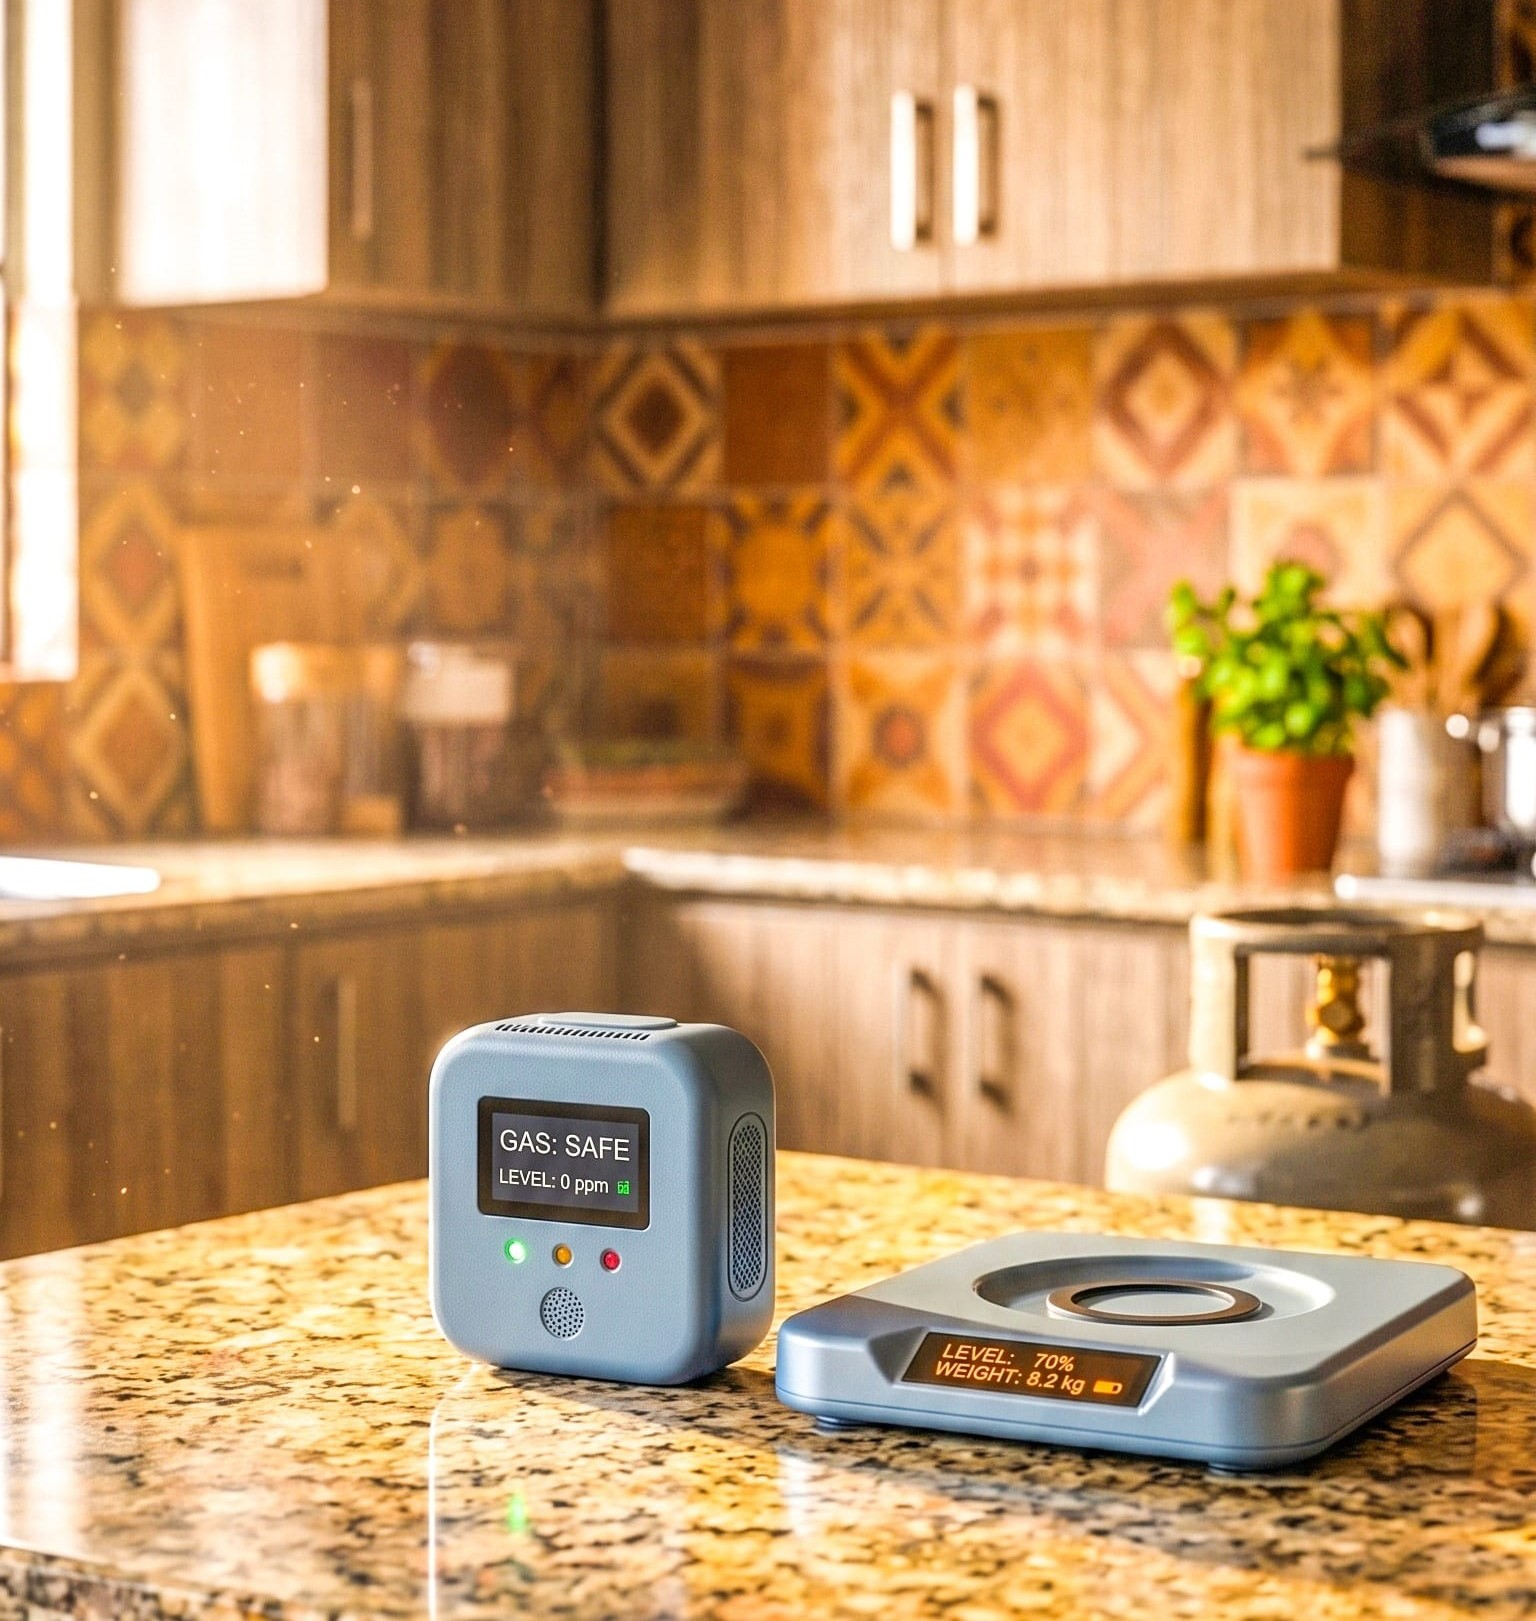
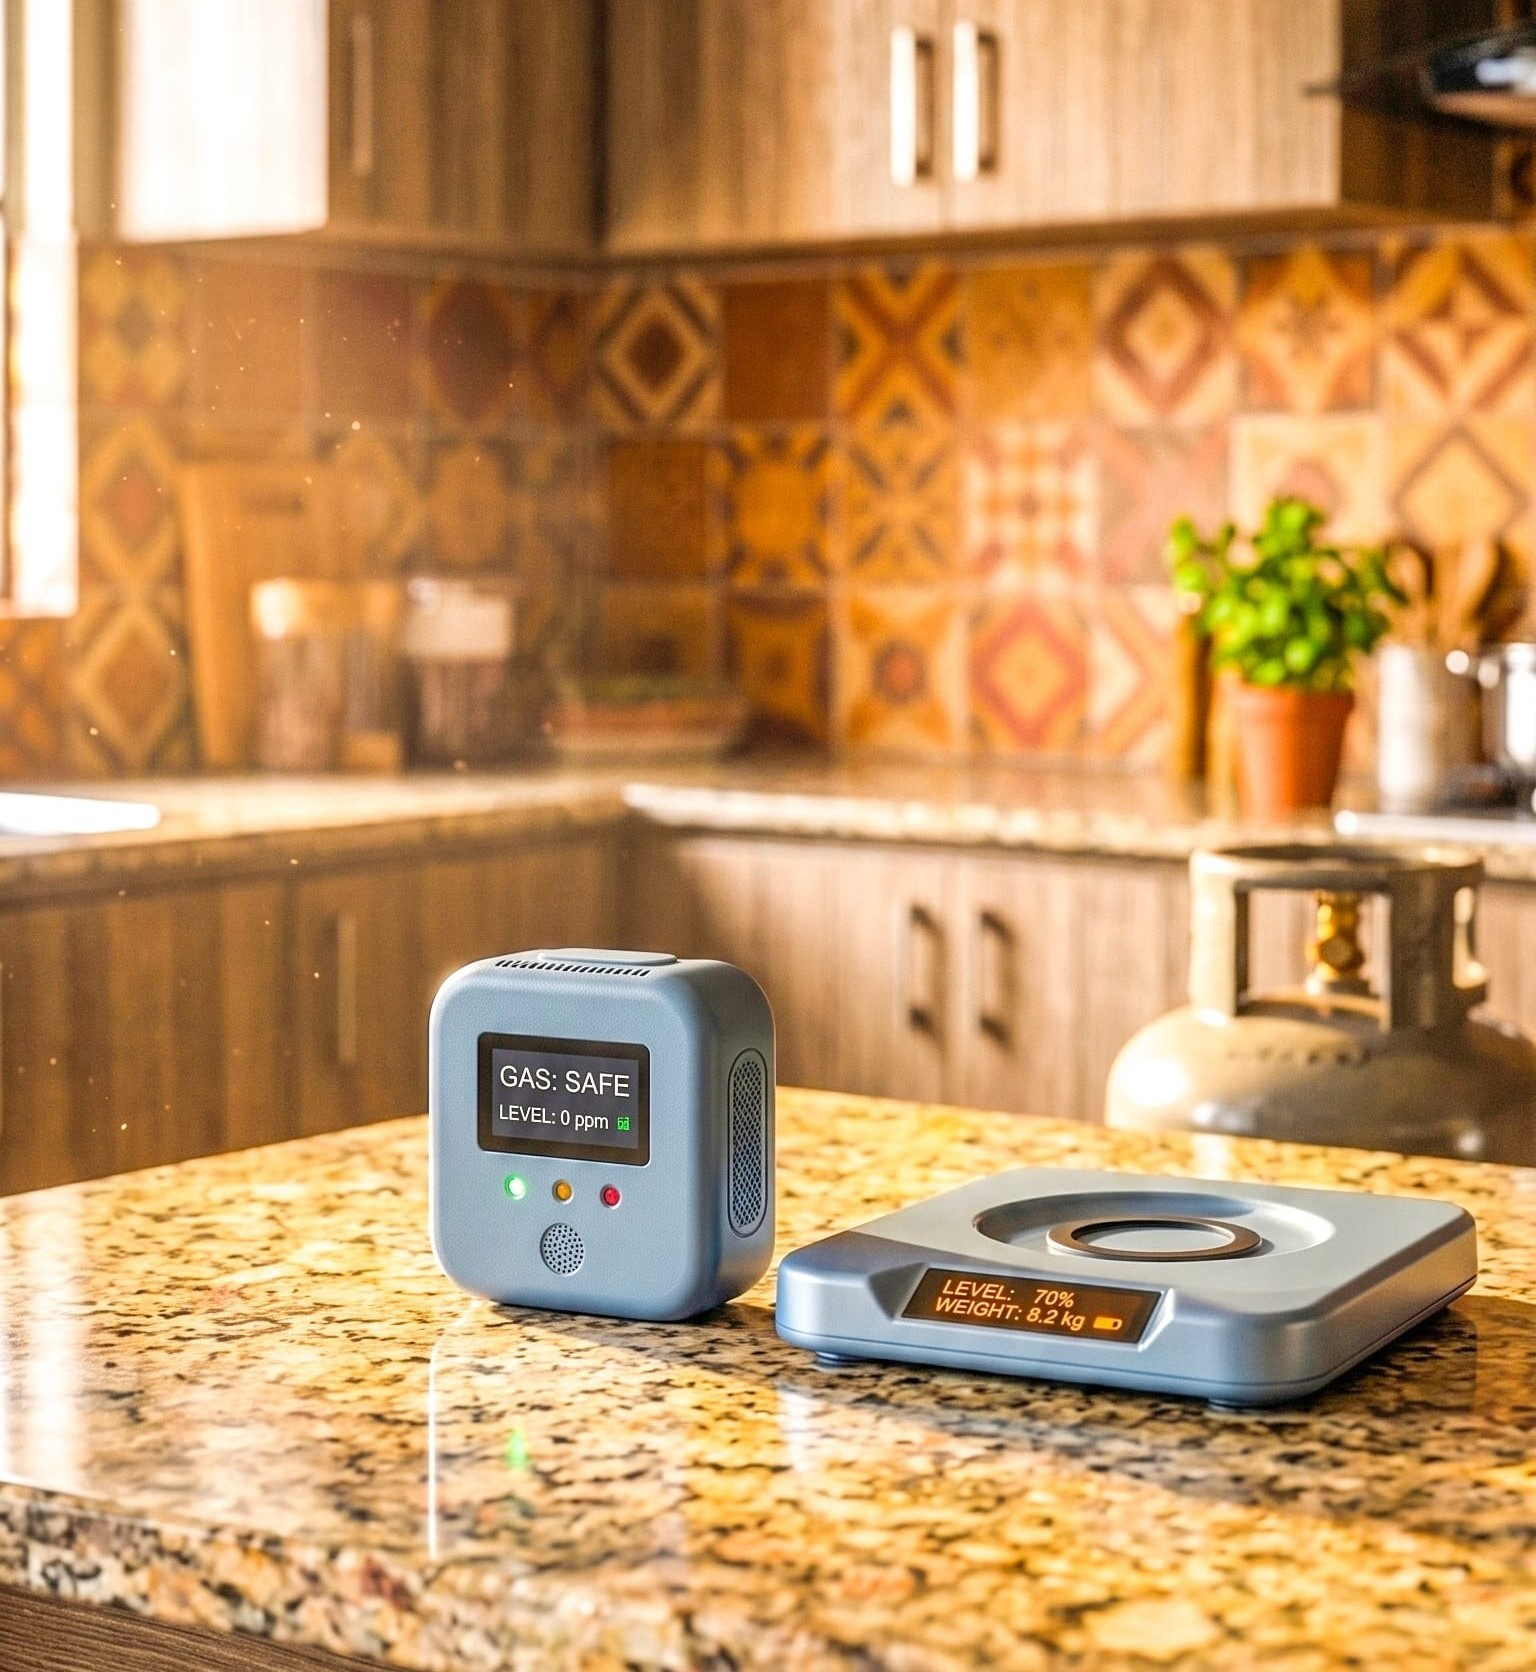
Refactor code structure for improved readability and maintainability

diff --git a/src/components/Products.tsx b/src/components/Products.tsx
@@ -1,10 +1,13 @@
 import { Volume2, Check } from "lucide-react";
 import Link from "next/link";
+import Image from "next/image";
 export default function Products() {
   const greenTextClassName =
     "text-[#12b76a] font-semibold uppercase text-xs mb-4";
   const listClassName =
     "flex items-center gap-3 text-[#12263f] text-xs font-thin my-3";
+  const buttonClassName =
+    "py-2 bg-amber-300 hover:bg-amber-200 pointer rounded-full text-[#12263f] font-bold text-sm text-center";
   return (
     <section
       id="what-we-are-building"
@@ -15,12 +18,19 @@ export default function Products() {
         <h2 className="text-[#12263F] text-2xl/6 font-bold mb-8">
           Two focused tools for LPG safety
         </h2>
-        <div id="product--cards" className="md:flex md:items-center md:gap-3">
-          <div id="product--card" className="md:w-1/2 bg-[#fff] p-4 rounded-xl">
-            <div
-              id="placeholder"
-              className="w-full h-40 bg-[#FDECEA] rounded-lg"
-            ></div>
+        <div
+          id="product--cards"
+          className="md:flex md:items-center md:justify-between"
+        >
+          <div id="product--card" className="md:w-1/3 bg-[#fff] p-4 rounded-xl">
+            <div id="placeholder" className="w-full rounded-lg">
+              <Image
+                src="/product-one.jpeg"
+                width={500}
+                height={300}
+                alt="gas leakage detector placed on the wall"
+              />
+            </div>
             <div id="product--body" className="my-4">
               <h4 className="text-lg text-[#12263f] font-bold">
                 Gas Leakage Detector
@@ -48,14 +58,14 @@ export default function Products() {
                   Sends a remote alert to your phone
                 </li>
               </ul>
-              <div className="py-2 hover:bg-[#f59e0b]/70 pointer rounded-full text-[#12263f] font-bold text-sm text-center bg-[#f59e0b]">
+              <div className={buttonClassName}>
                 <Link href="/products">Explore the Product </Link>
               </div>
             </div>
           </div>
           <div
             id="product--card"
-            className="md:w-1/2 bg-[#fff] p-4 rounded-xl mt-4 md:mt-0"
+            className="md:w-1/3 bg-[#fff] p-4 rounded-xl mt-4 md:mt-0"
           >
             <div
               id="placeholder"
@@ -86,7 +96,7 @@ export default function Products() {
                   Sends a low-gas alert to your phone
                 </li>
               </ul>
-              <div className="py-2 hover:bg-[#f59e0b]/70 pointer rounded-full text-[#12263f] font-bold text-sm text-center bg-[#f59e0b]">
+              <div className={buttonClassName}>
                 <Link href="/products">Explore the Product </Link>
               </div>
             </div>

diff --git a/src/app/page.tsx b/src/app/page.tsx
@@ -15,7 +15,7 @@ export default function Home() {
     <main id="main">
       <section
         id="hero"
-        className="w-19/20 mx-auto py-4 pb-80 md:py-8 md:flex md:justify-between md:gap-4 md:items-center "
+        className="w-19/20 mx-auto py-4 md:py-8 md:flex md:justify-between md:gap-4 md:items-center "
       >
         <div className="md:w-1/2">
           <div className="bg-[#000]/25 px-4 py-2 rounded-full flex gap-2 items-center cursor-pointer my-8 hover:bg-[#000]/40 transition-colors w-fit">
@@ -91,7 +91,7 @@ export default function Home() {
           </div>
           <div
             id="row--2"
-            className="md:w-[20%] py-2 hover:bg-[#f59e0b]/70 pointer rounded-full text-[#12263f] font-bold text-sm text-center bg-[#f59e0b] mt-3"
+            className="md:w-[20%] py-2 bg-amber-300 hover:bg-amber-200 pointer rounded-full text-[#12263f] font-bold text-sm text-center mt-3"
           >
             <Link href="/products">See the Products </Link>
           </div>

diff --git a/src/components/Audience.tsx b/src/components/Audience.tsx
@@ -25,7 +25,7 @@ export default function Audience() {
         >
           <div id="audience--card" className={cardClassName}>
             <Image
-              src="/card-one.png"
+              src="/card-one.jpg"
               alt="Household Scene"
               width={500}
               height={300}
@@ -39,7 +39,7 @@ export default function Audience() {
           </div>
           <div id="audience--card" className={cardClassName}>
             <Image
-              src="/card-two.png"
+              src="/card-two.jpg"
               alt="Commercial Kitchen Scene"
               width={500}
               height={300}
@@ -53,7 +53,7 @@ export default function Audience() {
           </div>
           <div id="audience--card" className={cardClassName}>
             <Image
-              src="/card-three.png"
+              src="/card-three.jpg"
               alt="Two guys carrying a gas cylinder"
               width={500}
               height={300}

diff --git a/src/app/layout.tsx b/src/app/layout.tsx
@@ -1,14 +1,14 @@
 import type { Metadata } from "next";
-import { Bricolage_Grotesque, Parkinsans } from "next/font/google";
+import { Parkinsans } from "next/font/google";
 import "./globals.css";
 import Header from "@/components/Header";
 import Footer from "@/components/Footer";
 
-const bricolageGrotesque = Bricolage_Grotesque({
-  variable: "--font-bricolage",
-  subsets: ["latin"],
-  weight: ["400", "500", "600", "700"],
-});
+// const bricolageGrotesque = Bricolage_Grotesque({
+//   variable: "--font-bricolage",
+//   subsets: ["latin"],
+//   weight: ["400", "500", "600", "700"],
+// });
 
 const parkinsans = Parkinsans({
   variable: "--font-parkinsans",
